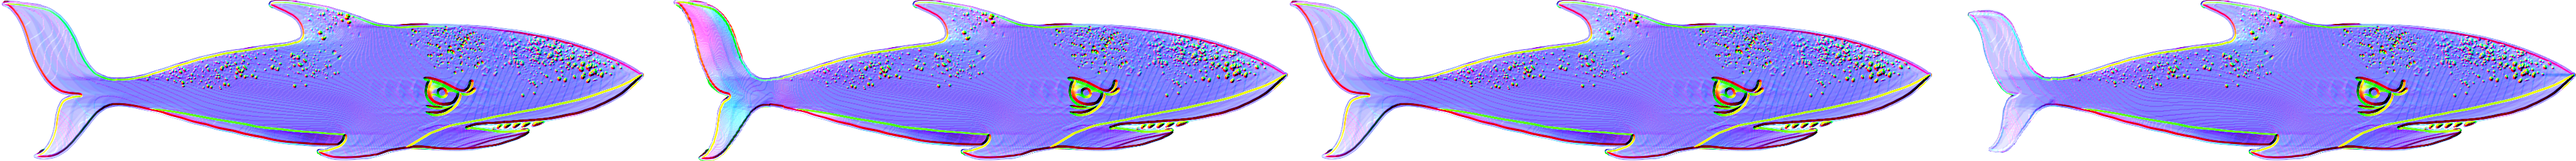
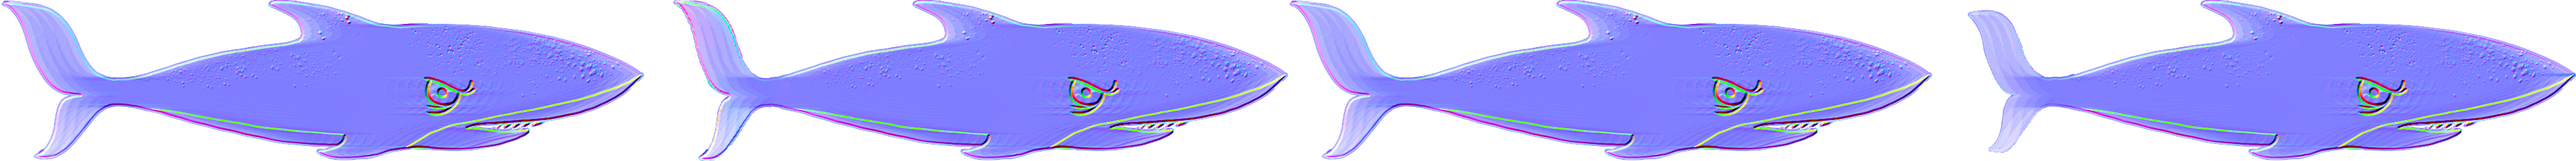
Normal map all the fish.

Changed region(s): [[0.0, 0.0, 1.0, 1.0], [0.25, 0.9062, 0.2812, 1.0], [0.75, 0.9062, 0.7812, 0.9375]]

diff --git a/public_html/src/FishingGame/FishingLevel.js b/public_html/src/FishingGame/FishingLevel.js
@@ -16,15 +16,20 @@ function FishingLevel() {
     this.kParticleTexture = "assets/particle.png";
     this.kBoat = "assets/Fisherman.png";
     this.kFish_R = "assets/Fish_R.png";
+    this.kFish_R_Norm = "assets/Fish_R_Norm.png";
     this.kFish01_R = "assets/Fish01_R.png";
     this.kFish02_R = "assets/Fish02_R.png";
     this.kFish03_R = "assets/Fish03_R.png";
-    this.mFishes = [];
+    this.mFishTextures = [];
+    this.mSharkTextures = [];
+    this.mAnglerTextures = [];
+    this.mCloudTextures = [];
     this.kHook = "assets/Hook.png";
     this.kAngler_R = "assets/Angler_R.png";
+    this.kAngler_R_Norm = "assets/Angler_R_Norm.png";
     this.kShark_R = "assets/Shark_R.png";
     this.kShark_R_Norm = "assets/Shark_R_Norm.png";
-    this.kCloud3UC = "assets/Cloud 3.png";
+    this.kCloud = "assets/Cloud 3.png";
     this.kFishingLine = "assets/Line.png";
     this.kSpotlightBase = "assets/SpotlightBase.png";
     this.kSpotlight = "assets/Spotlight.png";
@@ -67,16 +72,16 @@ FishingLevel.prototype.loadScene = function () {
     gEngine.Textures.loadTexture(this.kSpotlightBase);
     //gEngine.Textures.loadTexture(this.kBoatNorm);
     gEngine.Textures.loadTexture(this.kAngler_R);
-    gEngine.Textures.loadTexture(this.kAngler_R);
-    gEngine.Textures.loadTexture(this.kAngler_R);
+    gEngine.Textures.loadTexture(this.kAngler_R_Norm);
     gEngine.Textures.loadTexture(this.kShark_R);
     gEngine.Textures.loadTexture(this.kShark_R_Norm);
     gEngine.Textures.loadTexture(this.kFish_R);
+    gEngine.Textures.loadTexture(this.kFish_R_Norm);
     gEngine.Textures.loadTexture(this.kFish01_R);
     gEngine.Textures.loadTexture(this.kFish02_R);
     gEngine.Textures.loadTexture(this.kFish03_R);
     gEngine.Textures.loadTexture(this.kHook);
-    gEngine.Textures.loadTexture(this.kCloud3UC);
+    gEngine.Textures.loadTexture(this.kCloud);
     gEngine.Textures.loadTexture(this.kSpriteNames);
     gEngine.Textures.loadTexture(this.kSpriteNames);
     gEngine.Textures.loadTexture(this.kBG);
@@ -93,7 +98,7 @@ FishingLevel.prototype.unloadScene = function() {
 
 FishingLevel.prototype.initialize = function () {
     // set ambient lighting
-    gEngine.DefaultResources.setGlobalAmbientColor([0.4, 0.4, 0.4, 1.0]);
+    gEngine.DefaultResources.setGlobalAmbientColor([0.3, 0.3, 0.3, 1.0]);
     gEngine.DefaultResources.setGlobalAmbientIntensity(1.0);
     
     // Step A: set up the cameras
@@ -131,17 +136,27 @@ FishingLevel.prototype.initialize = function () {
     this.mDirectLight.setIntensity(1.0);
     this.mDirectLight.setDropOff(1.0);
     
-    this.mFishes.push(this.kFish_R);
-    this.mFishes.push(this.kFish01_R);
-    this.mFishes.push(this.kFish02_R);
-    this.mFishes.push(this.kFish03_R);
+    this.mFishTextures.push(this.kFish_R);
+    this.mFishTextures.push(this.kFish01_R);
+    this.mFishTextures.push(this.kFish02_R);
+    this.mFishTextures.push(this.kFish03_R);
+    this.mFishTextures.push(this.kFish_R_Norm);
+    
+    this.mSharkTextures.push(this.kShark_R);
+    this.mSharkTextures.push(this.kShark_R_Norm);
+    
+    this.mAnglerTextures.push(this.kAngler_R);
+    this.mAnglerTextures.push(this.kAngler_R_Norm);
+    
+    this.mCloudTextures.push(this.kCloud);
+    this.mCloudTextures.push(this.kParticleTexture);
     
     this.mSpawner = new Spawner(this.mBG, this.mCamera);
-    this.mFish = this.mSpawner.populate(1, "Fish", this.mFishes[0], this.mFishes[1], this.mFishes[2], this.mFishes[3]);
+    this.mFish = this.mSpawner.populate(1, "Fish", this.mFishTextures);
     //this.mHook = this.mSpawner.populate(1, "Hook", this.kHook);
-    this.mCloud = this.mSpawner.populate(3, "Cloud", this.kCloud3UC, null, null, null, this.kParticleTexture);
-    this.mShark = this.mSpawner.populate(1, "Shark", this.kShark_R, this.kShark_R_Norm);
-    this.mAngler = this.mSpawner.populate(3, "Angler", this.kAngler_R);
+    this.mCloud = this.mSpawner.populate(5, "Cloud", this.mCloudTextures);
+    this.mShark = this.mSpawner.populate(1, "Shark", this.mSharkTextures);
+    this.mAngler = this.mSpawner.populate(3, "Angler", this.mAnglerTextures);
     
     this.mBoat = new FishingBoat(this.kBoat);
     this.mHook = new Hook(this.kHook);
@@ -376,7 +391,7 @@ FishingLevel.prototype.checkNPCcount = function(){
     
     if(this.mFish.length < (this.mSpawnLimit)){
         var amount = this.mSpawnLimit - this.mFish.length;
-        batch = this.mSpawner.populate(amount, "Fish", this.mFishes[0], this.mFishes[1], this.mFishes[2], this.mFishes[3]);
+        batch = this.mSpawner.populate(amount, "Fish", this.mFishTextures);
         for(i = 0; i < batch.length; i++){
             this.mFish.push(batch[i]);
             this.addAllLightsTo(batch[i].getRenderable());
@@ -385,7 +400,7 @@ FishingLevel.prototype.checkNPCcount = function(){
     
     if(this.mShark.length < this.mSpawnLimit){
         var amount = this.mSpawnLimit - this.mShark.length;
-        batch = this.mSpawner.populate(amount, "Shark", this.kShark_R, this.kShark_R_Norm);
+        batch = this.mSpawner.populate(amount, "Shark", this.mSharkTextures);
         for(i = 0; i < batch.length; i++){
             this.mShark.push(batch[i]);
             this.addAllLightsTo(batch[i].getRenderable());
@@ -394,7 +409,7 @@ FishingLevel.prototype.checkNPCcount = function(){
     
     if(this.mAngler.length < this.mSpawnLimit){
         var amount = this.mSpawnLimit - this.mAngler.length;
-        batch = this.mSpawner.populate(amount, "Angler", this.kAngler_R);
+        batch = this.mSpawner.populate(amount, "Angler", this.mAnglerTextures);
         for(i = 0; i < batch.length; i++){
             batch[i].setLight(this.mLightStorage.pop());
             this.mAngler.push(batch[i]);

diff --git a/public_html/src/FishingGame/Util/Spawner.js b/public_html/src/FishingGame/Util/Spawner.js
@@ -23,9 +23,9 @@ function Spawner(world, camera){
 /*
  * @amount: the amount to spawn
  * @type: the object type to be spawned
- * @texture: the sprite sheet for the object
+ * @texture: an array of sprite sheets for the object(s)
  */
-Spawner.prototype.populate = function (amount, type, texture0, texture1, texture2, texture3, other){
+Spawner.prototype.populate = function (amount, type, texturePack){
     
     if(amount === 0) return;
     if(type === null) return;
@@ -39,7 +39,7 @@ Spawner.prototype.populate = function (amount, type, texture0, texture1, texture
     for(i; i < amount; i++){
         switch(type){
             case "Fish":
-                object = new Fish(texture0, texture1, texture2, texture3);
+                object = new Fish(texturePack[0], texturePack[1], texturePack[2], texturePack[3], texturePack[4]);
                 object.setSpeed(0.1);
                 objXform = object.getXform();
                 w = Math.floor((Math.random()*6) + 3);
@@ -55,7 +55,7 @@ Spawner.prototype.populate = function (amount, type, texture0, texture1, texture
                 }
                 continue;
             case "Shark":
-                object = new Shark(texture0, texture1);
+                object = new Shark(texturePack[0], texturePack[1]);
                 object.setSpeed(0.1);
                 objXform = object.getXform();
                 w = 15;
@@ -68,7 +68,7 @@ Spawner.prototype.populate = function (amount, type, texture0, texture1, texture
                 population.push(object);
                 continue;
             case "Angler":
-                object = new AnglerFish(texture0);
+                object = new AnglerFish(texturePack[0], texturePack[1]);
                 object.setSpeed(0.1);
                 objXform = object.getXform();
                 w = Math.floor((Math.random()*3) + 6);
@@ -82,7 +82,7 @@ Spawner.prototype.populate = function (amount, type, texture0, texture1, texture
                 population.push(object);
                 continue;    
             case "Cloud":
-                object = new Cloud(texture0, other, this.mWorld);
+                object = new Cloud(texturePack[0], texturePack[1], this.mWorld);
                 object.setSpeed(0.1);
                 objXform = object.getXform();
                 w = Math.floor((Math.random()*15) + 30);

diff --git a/public_html/src/FishingGame/Objects/Fishing Boat/FishingBoat.js b/public_html/src/FishingGame/Objects/Fishing Boat/FishingBoat.js
@@ -24,14 +24,20 @@ function FishingBoat(texture){
     GameObject.call(this, this.mBoat);
     
     this.mBoatLight = this._createALight(Light.eLightType.eSpotLight,
-            [80, 20, 5],            // position
-            [-0.5, -0.3, -0.1],     // direction
-            [0.5, 0.5, 0.5, 1],     // color
-            1, 50,                  // near and far distances
-            1.1, 1.25,               // inner outter angles (in radius)
-            1.5,                     // intensity
+            [40, 20, 5],            // position
+            [-0.41, -0.24, -0.1],     // direction
+            [1.0, 0.8, 0.4, 1],     // color
+            1, 60,                  // near and far distances
+            (Math.PI/11), (Math.PI/6),               // inner outter angles (in radius)
+            2.7,                     // intensity
             0.2                     // drop off
             );
+    var xform = this.getXform();
+   var pos = vec3.fromValues(
+                xform.getXPos() + 8.2,
+                xform.getYPos() + 7.3,
+                0);
+    this.mBoatLight.set2DPosition(pos);
     this.mBoat.addLight(this.mBoatLight);
 }
 gEngine.Core.inheritPrototype(FishingBoat, GameObject);
@@ -61,8 +67,8 @@ FishingBoat.prototype.getLight = function (){
 FishingBoat.prototype.update = function () {
     var xform = this.getXform();
     var pos = vec3.fromValues(
-                xform.getXPos() - 1,
-                xform.getYPos() + 2.5,
+                xform.getXPos() + 8.2,
+                xform.getYPos() + 7.3,
                 0);
     this.mBoatLight.set2DPosition(pos);
     this.mBoat.updateAnimation();

diff --git a/public_html/src/FishingGame/Objects/Fish SubClasses/AnglerFish.js b/public_html/src/FishingGame/Objects/Fish SubClasses/AnglerFish.js
@@ -7,18 +7,27 @@
  */
 
 
-/* global GameObject, gEngine, Fish, Light, vec3, SpriteAnimateRenderable */
+/* global GameObject, gEngine, Fish, Light, vec3, SpriteAnimateRenderable, vec2 */
 
 'use strict';
 
-function AnglerFish(texture){
-    Fish.call(this, texture);
+function AnglerFish(texture, normal){
+    this.mFish = new IllumRenderable(texture, normal); 
     this.mFish.setSpriteSequence(1024, 0, 1024, 1024, 4, 0);
     this.mFish.setAnimationSpeed(20);
     this.mFish.setAnimationType(SpriteAnimateRenderable.eAnimationType.eAnimateSwing);
+    this.mFish.setColor([1,1,1,0]);
     //this.mChaseDist = 10;
     this.mRotateRate = 1;
     this.mSpeed = 0.5;
+    GameObject.call(this, this.mFish);
+    this.mStatus = 0;
+    this.mScore = 1;
+    this.mBounces = 0;
+    var front = vec2.fromValues(1, 0);
+    
+    this.setCurrentFrontDir(front);
+    this.mFish.getXform().setRotationInRad(0);
     this.mAnglerLight = null;
     
     /*
@@ -50,7 +59,7 @@ AnglerFish.prototype.createLight = function () {
     light.setFar(6);
     light.setInner(0.5);
     light.setOuter(1.4);
-    light.setIntensity(3);
+    light.setIntensity(2.2);
     light.setDropOff(0.5);
 
     this.mAnglerLight = light;

diff --git a/public_html/src/FishingGame/Objects/Fish/Fish.js b/public_html/src/FishingGame/Objects/Fish/Fish.js
@@ -10,20 +10,20 @@
 
 "use strict";
 
-function Fish(texture0, texture1, texture2, texture3) {
+function Fish(texture0, texture1, texture2, texture3, normal) {
     
     if(texture1 === undefined){
-        this.mFish = new LightRenderable(texture0); 
+        this.mFish = new IllumRenderable(texture0, normal); 
     }else{
         var rand = Math.random() * 4;
         if(rand < 1)
-            this.mFish = new LightRenderable(texture0);
+            this.mFish = new IllumRenderable(texture0, normal);
         else if(rand < 2)
-            this.mFish = new LightRenderable(texture1);
+            this.mFish = new IllumRenderable(texture1, normal);
         else if(rand < 3)
-            this.mFish = new LightRenderable(texture2);
+            this.mFish = new IllumRenderable(texture2, normal);
         else
-            this.mFish = new LightRenderable(texture3);
+            this.mFish = new IllumRenderable(texture3, normal);
         
         //do animate things here
         this.mFish.setSpriteSequence(256, 0, 512, 256, 4, 0);

diff --git a/public_html/src/FishingGame/Objects/Spotlight.js b/public_html/src/FishingGame/Objects/Spotlight.js
@@ -14,8 +14,8 @@ function Spotlight(texture) {
     this.mSpotlight = new LightRenderable(texture);
     this.mSpotlight.setColor([1,1,1,0]);
     this.mSpotlight.getXform().setPosition(-5.8, -1.3);
-    this.mSpotlight.getXform().setSize(2, 2);
-    this.mSpotlight.getXform().setRotationInRad(0.3);
+    this.mSpotlight.getXform().setSize(2.3, 2.3);
+    this.mSpotlight.getXform().setRotationInRad(0.4);
     this.mSpotlight.setElementPixelPositions(0, 1024, 0, 1024);
     GameObject.call(this, this.mSpotlight);
 }
